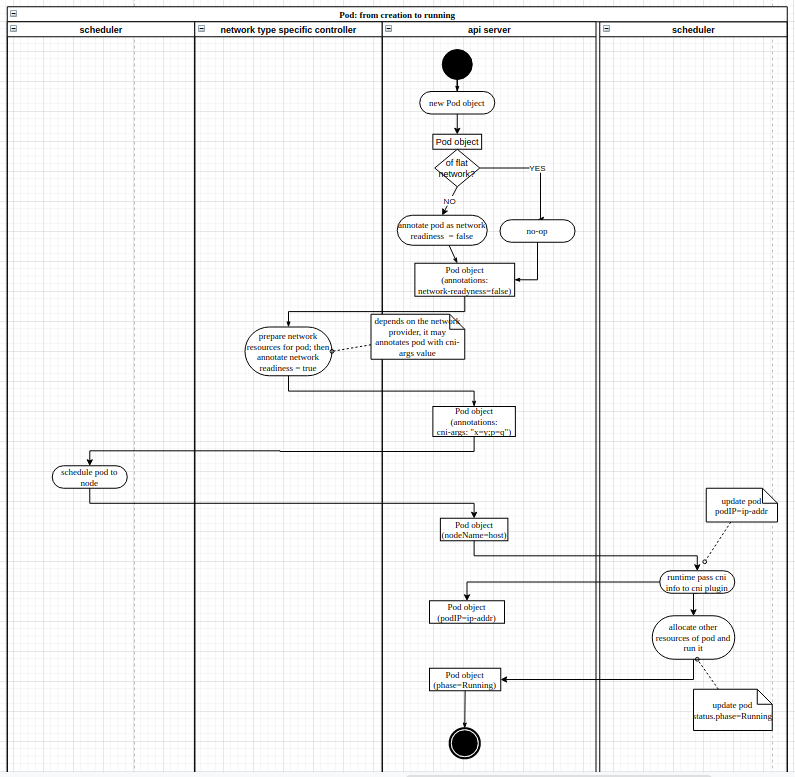
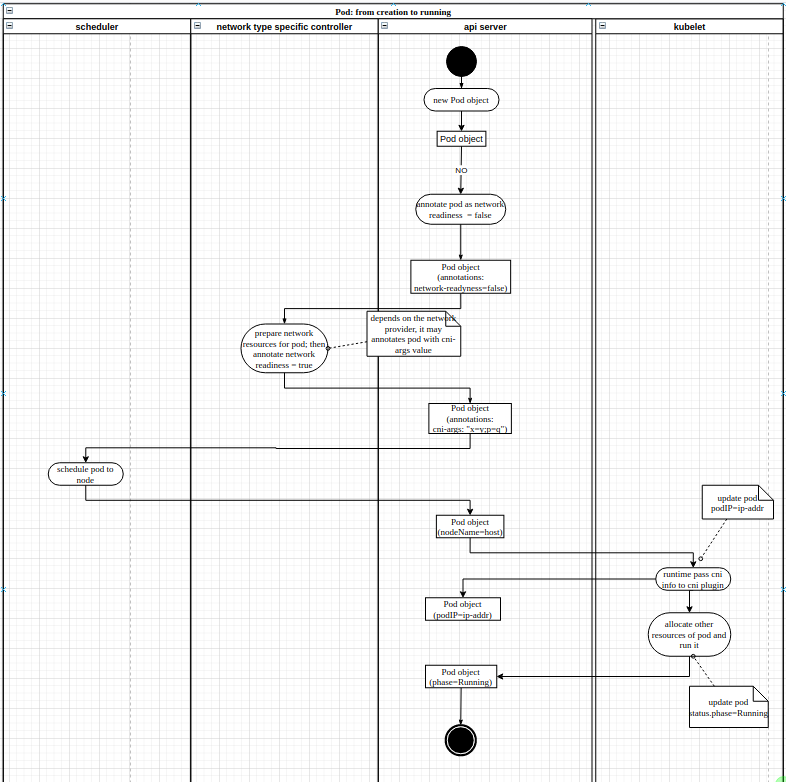
removed vip hint; clarified network-readiness

diff --git a/docs/design-proposals/multi-tenancy/multi-tenancy-network.md b/docs/design-proposals/multi-tenancy/multi-tenancy-network.md
@@ -250,16 +250,7 @@ Network object specifies service IPAM as *external*:
       service:
         ipam: external
 
-#### User hints
-
-User can provide hints about service IP address.
-
-For Arktos managed pool, it will look at the specific annotation of service object like below
-```arktos.futurewei.com/vip-hint: {"cidr":"10.10.1.0/26"}```
-
-Other keys supported are "ip", "policy" (with "BestEffort" the default, or "Guaranteed").
-
-For network provider managed pool, it is encouraged to stick to the above convention. However, it is totally up to the provider service controller.
+(**TBD: consider support for user can provide hints about service IP address**)
 
 #### Semantic support
 
@@ -327,7 +318,8 @@ Components not decided yet at current phase are not included in these views.
 
 ![Pod-activity-diag](images/pod-activity-diagram.png)
 
-1. It is strongly recommended to annotate new pods with arktos.futurewei.com/network-readiness as hint for scheduler. It is not mandatory, though - kubelet and cni plugin will have to cope with it and gets it right eventually. This kind of initial pod annotation can be done by a custom admission control.
+1. On creation to annotate new pods with arktos.futurewei.com/network-readiness=false as hint for scheduler, by a custom admission control.
+   For flat network type, such annotation is not required as its operator typically has no network preparation work to do.
 2. It is the network controller's responsibility to do whatever network resource preparation for the pod. If pod has hint of arktos.futurewei.com/nic annoation, it should honor that.
 3. It is the network controller's responsibility to clean the annotation arktos.futurewei.com/network-readiness=false if it is there, if applicable network resource preparation is finished.
 4. It is the network controller's responsibility to annotate pod with proper information that the cni plugin needs in term of CNI-ARGS. Arktos system just picks up the annotation value and pass it on when calling cni plugin.
